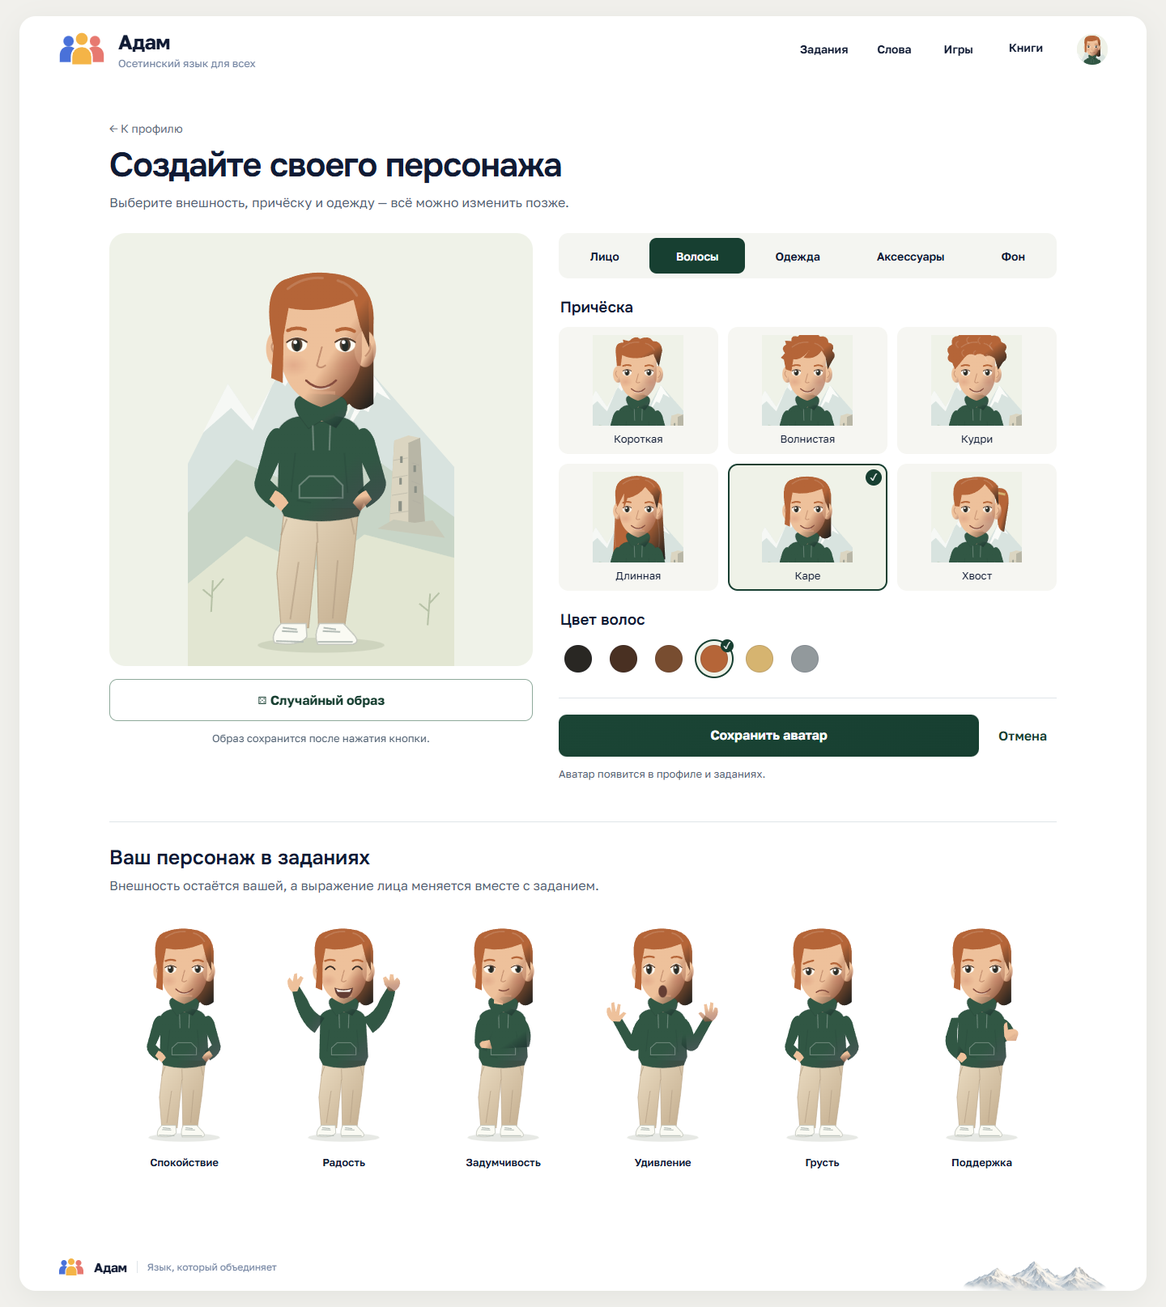
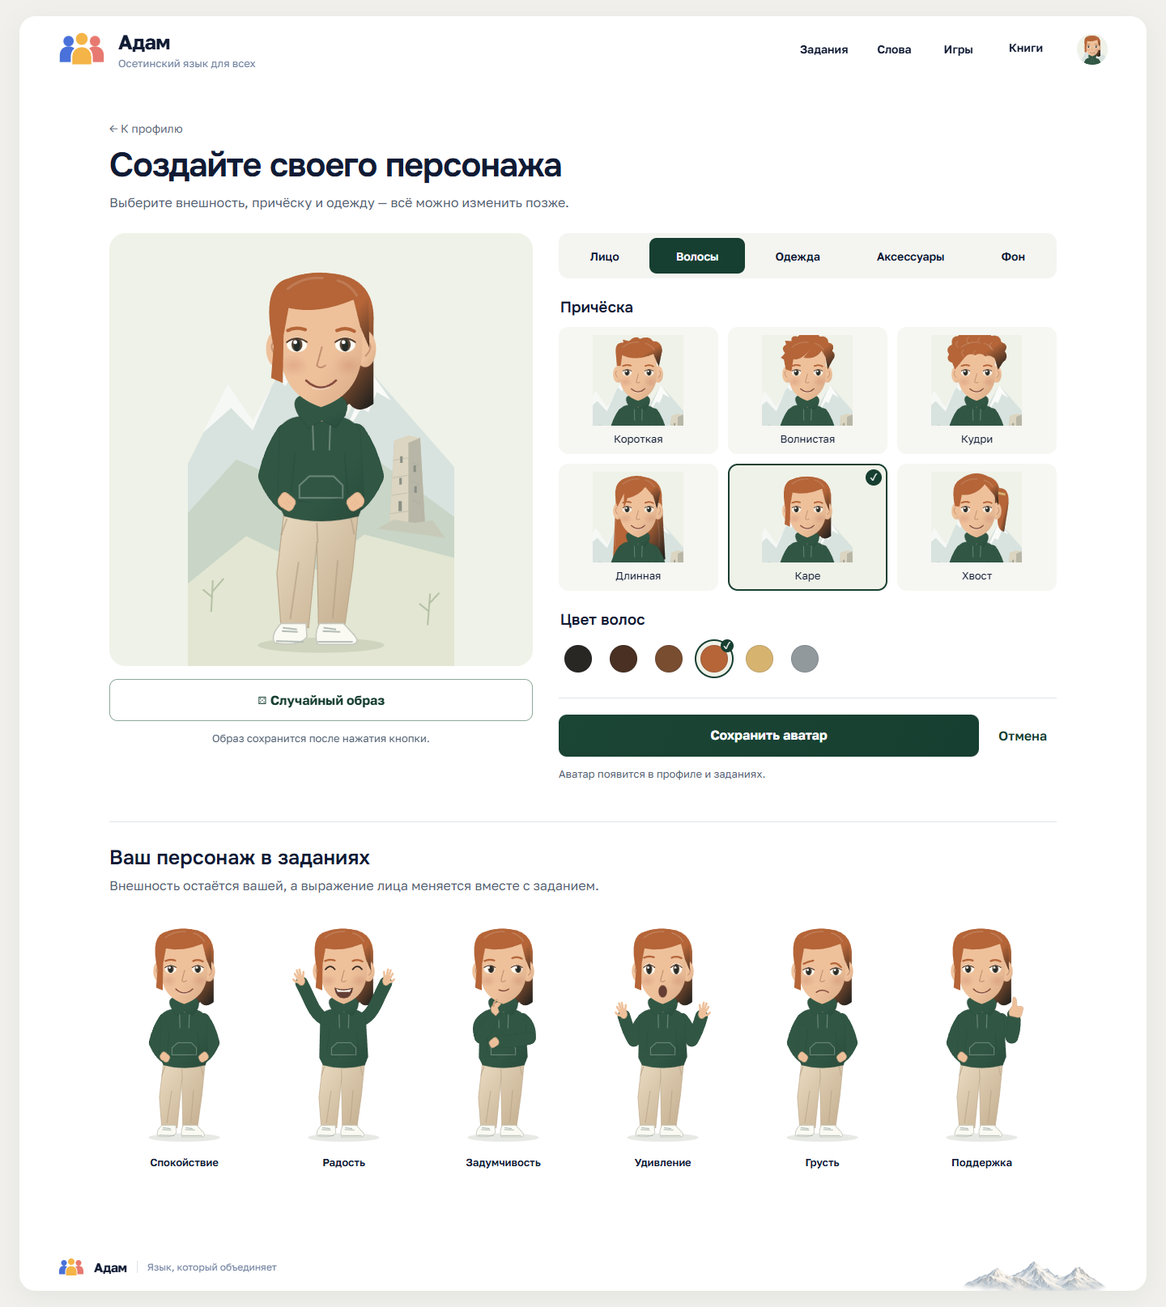
fix: исправить слои лица и геометрию рук аватара
Убрана прозрачность кожи и одежды, закрыт стык волос у хвоста. Перерисованы руки, короткие рукава футболки и кисти для эмоций, корпус перекрывает плечевые стыки. Версия отрисовки обновляет кэш изображений без изменения сохранённой внешности.

Проверено: сборка без предупреждений, публикация, 61 браузерная проверка, 36 проверок перекрытия по пикселям и визуальная проверка всех эмоций с футболкой, рубашкой и худи.

diff --git a/IronLanguage.Web/wwwroot/js/avatar-editor.js b/IronLanguage.Web/wwwroot/js/avatar-editor.js
@@ -9,7 +9,7 @@
   const buttons = [...categories.querySelectorAll("button")];
   const random = document.getElementById("avatar-random");
   const values = () => Object.fromEntries(fields.filter(x => x.checked).map(x => [x.dataset.avatarProperty, x.value]));
-  const url = (state, emotion = "Neutral", portrait = false) => "/avatars/render?" + new URLSearchParams({ v: "1", ...state, emotion, portrait });
+  const url = (state, emotion = "Neutral", portrait = false) => "/avatars/render?" + new URLSearchParams({ v: root.dataset.avatarRendererVersion, ...state, emotion, portrait });
   function update() {
     const state = values();
     preview.src = url(state);

diff --git a/IronLanguage.Web/Services/AvatarRenderer.cs b/IronLanguage.Web/Services/AvatarRenderer.cs
@@ -6,8 +6,9 @@ namespace IronLanguage.Web.Services;
 /// <summary>Shared, versioned SVG renderer. Expressions and poses do not modify saved appearance.</summary>
 public static class AvatarRenderer
 {
+    public const string Version = "2";
     public static string Url(AvatarOptions options, AvatarEmotion emotion = AvatarEmotion.Neutral, bool portrait = false) =>
-        "/avatars/render?v=1&" + string.Join("&", AvatarCatalog.Groups.Select(g => $"{g.Property}={Uri.EscapeDataString(options.Get(g.Property))}"))
+        "/avatars/render?v=" + Version + "&" + string.Join("&", AvatarCatalog.Groups.Select(g => $"{g.Property}={Uri.EscapeDataString(options.Get(g.Property))}"))
         + $"&emotion={emotion}&portrait={portrait.ToString().ToLowerInvariant()}";
 
     public static string Svg(AvatarOptions o, AvatarEmotion emotion = AvatarEmotion.Neutral, bool portrait = false)
@@ -16,14 +17,16 @@ public static class AvatarRenderer
         var skin = AvatarCatalog.Color(nameof(o.Skin), o.Skin);
         var hair = AvatarCatalog.Color(nameof(o.HairColor), o.HairColor);
         var top = AvatarCatalog.Color(nameof(o.TopColor), o.TopColor);
+        var skinShadow = Mix(skin, "#75472e", .18);
+        var topShadow = Mix(top, "#142a25", .25);
         var s = new StringBuilder();
         void Add(string svg) => s.Append(svg);
         Add($$"""
         <svg xmlns="http://www.w3.org/2000/svg" viewBox="{{(portrait ? "40 35 240 240" : "0 0 320 520")}}" fill="none">
         <defs>
-          <linearGradient id="skin" x1="0" y1="0" x2="1" y2="1"><stop stop-color="{{skin}}"/><stop offset=".6" stop-color="{{skin}}"/><stop offset="1" stop-color="#8d4935" stop-opacity=".55"/></linearGradient>
+          <linearGradient id="skin" x1="0" y1="0" x2="1" y2="1"><stop stop-color="{{skin}}"/><stop offset=".6" stop-color="{{skin}}"/><stop offset="1" stop-color="{{skinShadow}}"/></linearGradient>
           <linearGradient id="hair" x1="0" y1="0" x2="1" y2="1"><stop stop-color="{{hair}}"/><stop offset=".6" stop-color="{{hair}}"/><stop offset="1" stop-color="#171c1c"/></linearGradient>
-          <linearGradient id="top" x1="0" y1="0" x2=".9" y2="1"><stop stop-color="{{top}}"/><stop offset=".65" stop-color="{{top}}"/><stop offset="1" stop-color="#1c302e" stop-opacity=".8"/></linearGradient>
+          <linearGradient id="top" x1="0" y1="0" x2=".9" y2="1"><stop stop-color="{{top}}"/><stop offset=".65" stop-color="{{top}}"/><stop offset="1" stop-color="{{topShadow}}"/></linearGradient>
           <linearGradient id="pants" x1="0" y1="0" x2="1" y2="1"><stop stop-color="#eadbc1"/><stop offset="1" stop-color="#c3ad8e"/></linearGradient>
           <radialGradient id="blush"><stop stop-color="#c47562" stop-opacity=".28"/><stop offset="1" stop-color="#c47562" stop-opacity="0"/></radialGradient>
           <pattern id="knit" width="6" height="6" patternUnits="userSpaceOnUse"><path d="m0 0 3 3 3-3" stroke="#fff" opacity=".055"/></pattern>
@@ -53,7 +56,10 @@ public static class AvatarRenderer
         if (o.Hair is "long" or "bob")
             Add($"<path d=\"M102 94Q96 48 158 48q69-2 65 62l{(o.Hair == "long" ? "9 157q-37 13-53-15-34 28-85 7Z" : "0 95q-18 14-29 0-19 15-51 0Z")}\" fill=\"url(#hair)\"/>");
         if (o.Hair == "ponytail")
+        {
+            Add("<path d=\"M105 137Q92 72 118 54q36-26 72-7 37 11 30 57l-7 36-16-21-77 4Z\" fill=\"url(#hair)\"/>");
             Add("<path d=\"M211 79q42-9 32 53l-10 62q-19-5-17-38l-5-54Z\" fill=\"url(#hair)\"/><path d=\"m217 91 19 4\" stroke=\"#d6b470\" stroke-width=\"6\"/>");
+        }
         // Fixed lower outfit.
         Add("""
         <path d="M116 331h89l-7 72-10 72h-31l-2-104-10 103h-33l-5-65Z" fill="url(#pants)" stroke="#bda98d" stroke-width="1.2"/>
@@ -63,12 +69,12 @@ public static class AvatarRenderer
         """);
         // Neck and body.
         Add("""
-        <path d="M143 190h34v38q-14 20-34 0Z" fill="url(#skin)"/>
-        <path d="M143 192h34v16q-15 8-34-1Z" fill="#894c37" opacity=".18"/>
+        <g data-avatar-layer="neck"><path d="M143 190h34v38q-14 20-34 0Z" fill="url(#skin)"/>
+        <path d="M143 192h34v16q-15 8-34-1Z" fill="#894c37" opacity=".18"/></g>
         """);
+        Add(Arms(o, emotion, front: false));
+        Add("<g data-avatar-layer=\"torso\">");
         Add("<path d=\"M139 220q-19 0-29 14l-2 90 8 16q43 12 89 0l7-18-5-83q-7-17-29-19-19 13-39 0Z\" fill=\"url(#top)\" stroke=\"#263e36\" stroke-opacity=\".25\" stroke-width=\"1.4\"/>");
-        if (o.Top == "tee")
-            Add("<path d=\"M111 237 98 257l22 8m83-26 17 18-17 10\" fill=\"url(#top)\" stroke=\"#223932\" stroke-opacity=\".2\"/>");
         if (o.Top == "hoodie")
             Add("<path d=\"M133 219q-17-30 28-25 39-3 28 25l-11 15-17-9-16 10Z\" fill=\"url(#top)\" stroke=\"#253e34\" stroke-opacity=\".45\"/><path d=\"m150 231 1 30m20-30-1 30m-36 42 12-11h29l11 11v15h-52Z\" stroke=\"#fff\" stroke-opacity=\".27\" stroke-width=\"2\"/>");
         else if (o.Top == "shirt")
@@ -85,44 +91,22 @@ public static class AvatarRenderer
             Add("<g fill=\"#eee8db\"><circle cx=\"160\" cy=\"255\" r=\"2\"/><circle cx=\"160\" cy=\"277\" r=\"2\"/><circle cx=\"160\" cy=\"299\" r=\"2\"/><circle cx=\"160\" cy=\"321\" r=\"2\"/></g>");
         if (o.Top == "knit") Add("<path d=\"m119 241 81-1 4 86q-38 11-89 0Z\" fill=\"url(#knit)\"/>");
         Add("<path d=\"m129 264-5 47m64-47 4 48m-61 9 17 3m25-3 13-4\" stroke=\"#152d27\" opacity=\".15\" stroke-width=\"2\"/>");
-        // Pose-specific arms share the selected sleeve and skin colors.
-        var sleeve = o.Top == "tee" ? "url(#skin)" : "url(#top)";
-        if (emotion == AvatarEmotion.Happy)
-        {
-            Add($"<path d=\"M119 239Q93 229 82 199L65 171l-15 11q14 68 48 89Z\" fill=\"{sleeve}\"/><path d=\"M200 239q27-10 38-40l17-28 15 11q-13 67-48 89Z\" fill=\"{sleeve}\"/>");
-            Add("<path d=\"M49 183q-10-10-9-24l4-7 7 9 3-16 6-2 1 14 7-8 6 4-10 21-3 8ZM256 181q-3-7-9-14l-3-14 6-3 7 9 2-14 7 1 2 13 6-7 6 7q3 13-12 23Z\" fill=\"url(#skin)\"/>");
-        }
-        else if (emotion == AvatarEmotion.Surprised)
-        {
-            Add($"<path d=\"M115 238q-14 5-22 36l-24-40-16 11 31 57q16 18 35-6ZM204 238q14 5 22 36l24-40 16 11-31 57q-16 18-35-6Z\" fill=\"{sleeve}\"/>");
-            Add("<path d=\"M52 246q-15-12-11-28l6-2 4 11-1-20 6-2 4 21 4-17 6 1-3 24 9-8 6 3-14 18ZM266 246q15-12 11-28l-6-2-4 11 1-20-6-2-4 21-4-17-6 1 3 24-9-8-6 3 14 18Z\" fill=\"url(#skin)\"/>");
-        }
-        else if (emotion == AvatarEmotion.Thinking)
-        {
-            Add($"<path d=\"M111 240q-12 7-12 51 1 18 25 18l35-100-19-5-18 65Z\" fill=\"{sleeve}\"/><path d=\"M204 239q22 27 11 62l-79 5-3-19 59-5-8-26Z\" fill=\"{sleeve}\"/>");
-            Add("<path d=\"M140 208q-1-14 9-21l11-3 3 5-12 9 9 5-1 8ZM131 286l-17 3q-9 6 0 14l22 2Z\" fill=\"url(#skin)\"/>");
-        }
-        else if (emotion == AvatarEmotion.Supportive)
-        {
-            Add($"<path d=\"M114 238q-10 24-5 57l18 23-11 15q-38-20-33-54l12-40Z\" fill=\"{sleeve}\"/><path d=\"M204 239q21 8 28 37l-24 16-4-59-17 13Z\" fill=\"{sleeve}\"/>");
-            Add("<path d=\"M115 313q12 0 13 12l-11 10-11-9ZM208 278l-1-20q0-9 7-10l2 16 12-2q13 4 9 15l-4 11h-20Z\" fill=\"url(#skin)\"/>");
-        }
-        else
-        {
-            Add($"<path d=\"M113 237q-10-9-19 11l-14 51q-1 17 23 31l11-19-15-14 17-37ZM205 237q10-9 19 11l14 51q1 17-23 31l-11-19 15-14-17-37Z\" fill=\"{sleeve}\"/>");
-            Add("<path d=\"M105 309q9 3 16 15l-9 10-14-14ZM214 309q-9 3-16 15l9 10 14-14Z\" fill=\"url(#skin)\"/>");
-        }
+        Add("</g>");
+        Add(Arms(o, emotion, front: true));
+        Add(Hands(o, emotion, afterFace: false));
         if (o.Accessory == "scarf")
             Add("<path d=\"M134 216q27 19 53-1l3 16q-20 20-59 1ZM153 232h20l-2 51-19-3Z\" fill=\"#bb8c5b\"/><path d=\"m156 250 15 2m-16 9 16 2\" stroke=\"#ebd6b9\" stroke-width=\"2\"/>");
-        // Ears, face and highlights.
+        // Ears are behind an opaque face, including the jaw over the neck.
+        Add("<g data-avatar-layer=\"ears\">");
         Add("<ellipse cx=\"107\" cy=\"139\" rx=\"13\" ry=\"22\" fill=\"url(#skin)\"/><ellipse cx=\"213\" cy=\"139\" rx=\"13\" ry=\"22\" fill=\"url(#skin)\"/><path d=\"M104 130q-8 7 3 18m109-18q8 7-3 18\" stroke=\"#92553d\" stroke-opacity=\".4\" stroke-width=\"2\"/>");
+        Add("</g>");
         var face = o.Face switch
         {
             "round" => "M108 105q3-47 52-47t52 47v42q0 61-52 61t-52-61Z",
             "angular" => "M109 104q0-45 51-45t51 45l-3 62-24 31-24 11-24-11-24-31Z",
             _ => "M111 104q0-46 49-46t49 46v43q-4 47-49 62-45-15-49-62Z"
         };
-        Add($"<path d=\"{face}\" fill=\"url(#skin)\"/>");
+        Add($"<path data-avatar-layer=\"face\" d=\"{face}\" fill=\"url(#skin)\"/>");
         Add("<ellipse cx=\"127\" cy=\"159\" rx=\"19\" ry=\"14\" fill=\"url(#blush)\"/><ellipse cx=\"193\" cy=\"159\" rx=\"19\" ry=\"14\" fill=\"url(#blush)\"/>");
         Add("<path d=\"M161 137l-6 22q4 5 10 0\" stroke=\"#92553d\" stroke-opacity=\".45\" stroke-width=\"2\" stroke-linecap=\"round\"/>");
         var eyeY = emotion == AvatarEmotion.Sad ? 139 : 134;
@@ -165,7 +149,122 @@ public static class AvatarRenderer
             Add($"<g stroke=\"#35453e\" stroke-width=\"3\" fill=\"#fff\" fill-opacity=\".09\"><rect x=\"111\" y=\"121\" width=\"40\" height=\"29\" rx=\"{rx}\"/><rect x=\"169\" y=\"121\" width=\"40\" height=\"29\" rx=\"{rx}\"/><path d=\"M151 132q9-5 18 0m-58-2-7-3m105 3 7-3\"/></g>");
         }
         if (o.Accessory == "earrings") Add("<circle cx=\"106\" cy=\"158\" r=\"5\" stroke=\"#d6ad55\" stroke-width=\"3\"/><circle cx=\"214\" cy=\"158\" r=\"5\" stroke=\"#d6ad55\" stroke-width=\"3\"/>");
+        Add(Hands(o, emotion, afterFace: true));
         Add("</svg>");
         return s.ToString();
+    }
+
+    private record ArmPaths(string Full, string Forearm, string ShortSleeve);
+
+    private static (ArmPaths Left, ArmPaths Right) Pose(AvatarEmotion emotion) => emotion switch
+    {
+        AvatarEmotion.Happy => (
+            new("M119 242Q102 232 92 210Q80 185 70 164", "M92 210Q80 185 70 164", "M119 242Q107 234 102 225"),
+            new("M201 242Q218 232 228 210Q240 185 250 164", "M228 210Q240 185 250 164", "M201 242Q213 234 218 225")),
+        AvatarEmotion.Surprised => (
+            new("M119 242Q104 260 98 287Q86 267 77 235", "M98 287Q86 267 77 235", "M119 242Q110 254 107 261"),
+            new("M201 242Q216 260 222 287Q234 267 243 235", "M222 287Q234 267 243 235", "M201 242Q210 254 213 261")),
+        AvatarEmotion.Thinking => (
+            new("M119 242Q103 254 112 280Q130 255 143 228", "M112 280Q130 255 143 228", "M119 242Q111 254 111 262"),
+            new("M201 242Q218 256 216 282Q180 291 145 290", "M216 282Q180 291 145 290", "M201 242Q213 254 215 262")),
+        AvatarEmotion.Supportive => (
+            new("M119 242Q105 262 98 292Q107 312 118 321", "M98 292Q107 312 118 321", "M119 242Q110 254 107 264"),
+            new("M201 242Q218 257 224 280Q232 256 228 232", "M224 280Q232 256 228 232", "M201 242Q213 254 217 264")),
+        _ => (
+            new("M119 242Q105 262 98 292Q107 312 118 321", "M98 292Q107 312 118 321", "M119 242Q110 254 107 264"),
+            new("M201 242Q215 262 222 292Q213 312 202 321", "M222 292Q213 312 202 321", "M201 242Q210 254 213 264"))
+    };
+
+    private static string Arms(AvatarOptions o, AvatarEmotion emotion, bool front)
+    {
+        var skin = AvatarCatalog.Color(nameof(o.Skin), o.Skin);
+        var top = AvatarCatalog.Color(nameof(o.TopColor), o.TopColor);
+        var (left, right) = Pose(emotion);
+        var s = new StringBuilder($"<g data-avatar-layer=\"arms-{(front ? "front" : "back")}\" fill=\"none\" stroke-linecap=\"round\" stroke-linejoin=\"round\">");
+        void Stroke(string path, string color, int width) => s.Append($"<path d=\"{path}\" stroke=\"{color}\" stroke-width=\"{width}\"/>");
+        void Limb(string path, bool bare)
+        {
+            var color = bare ? skin : top;
+            Stroke(path, Mix(color, bare ? "#75472e" : "#142a25", .18), bare ? 22 : 27);
+            Stroke(path, color, bare ? 20 : 25);
+        }
+        if (!front)
+        {
+            foreach (var arm in new[] { left, right })
+            {
+                Limb(arm.Full, o.Top == "tee");
+                if (o.Top == "tee") Limb(arm.ShortSleeve, bare: false);
+            }
+        }
+        else if (emotion == AvatarEmotion.Thinking)
+        {
+            Limb(right.Forearm, o.Top == "tee");
+            Limb(left.Forearm, o.Top == "tee");
+        }
+        else if (emotion == AvatarEmotion.Supportive)
+            Limb(right.Forearm, o.Top == "tee");
+        s.Append("</g>");
+        return s.ToString();
+    }
+
+    private static string Hands(AvatarOptions o, AvatarEmotion emotion, bool afterFace)
+    {
+        var skin = AvatarCatalog.Color(nameof(o.Skin), o.Skin);
+        var edge = Mix(skin, "#75472e", .22);
+        var s = new StringBuilder($"<g data-avatar-layer=\"hands-{(afterFace ? "chin" : "front")}\" fill=\"{skin}\" stroke=\"{edge}\" stroke-width=\"1\" stroke-linecap=\"round\" stroke-linejoin=\"round\">");
+        void Rest(int x, int y, bool mirror = false) => s.Append($$"""
+            <g transform="translate({{x}} {{y}}) scale({{(mirror ? "-1" : "1")}} 1)">
+              <path d="M-8-4Q-12 1-7 7L1 12Q5 14 8 10L11 4Q12 0 8-3L2-8Q-2-11-5-8Z"/>
+              <path d="m-3 2 6 6m-3-9 6 6" fill="none" stroke-opacity=".35"/>
+            </g>
+            """);
+        void Open(int x, int y, int rotation, bool mirror = false) => s.Append($$"""
+            <g transform="translate({{x}} {{y}}) rotate({{rotation}}) scale({{(mirror ? "-1" : "1")}} 1)">
+              <ellipse cx="0" cy="-6" rx="8" ry="11"/>
+              <g fill="none" stroke="{{skin}}" stroke-width="4.5">
+                <path d="m-6-12-3-11m7 9-1-15m5 15 1-15m3 18 4-11M-6-3q-7-2-9-9"/>
+              </g>
+              <path d="m-3-8 5 2" fill="none" stroke-opacity=".25"/>
+            </g>
+            """);
+        if (afterFace)
+        {
+            if (emotion == AvatarEmotion.Thinking)
+                s.Append("""
+                <path d="M136 227q-5-8 1-15l8-6q7-2 10 3l-7 8 3 9-7 8Z"/>
+                <path d="M140 214q-2-8 6-14" fill="none" stroke="inherit" stroke-width="4"/>
+                <path d="m142 221 5 1" fill="none" stroke-opacity=".3"/>
+                """);
+        }
+        else if (emotion is AvatarEmotion.Happy or AvatarEmotion.Surprised)
+        {
+            var happy = emotion == AvatarEmotion.Happy;
+            Open(happy ? 70 : 77, happy ? 164 : 235, -15);
+            Open(happy ? 250 : 243, happy ? 164 : 235, 15, mirror: true);
+        }
+        else if (emotion == AvatarEmotion.Thinking)
+            Rest(141, 290, mirror: true);
+        else if (emotion == AvatarEmotion.Supportive)
+        {
+            Rest(118, 321);
+            s.Append("""
+            <g transform="translate(228 232)">
+              <path d="M-8 2q-4-7 1-15l5-7v-12q0-7 5-5l3 5 1 14h9q6 1 4 7l-3 12q-2 5-8 5Z"/>
+              <path d="m8-13 9 1m-10 5 9 1m-10 5 7 1" fill="none" stroke-opacity=".4"/>
+            </g>
+            """);
+        }
+        else { Rest(118, 321); Rest(202, 321, mirror: true); }
+        s.Append("</g>");
+        return s.ToString();
+    }
+
+    private static string Mix(string first, string second, double amount)
+    {
+        var rgb = new int[3];
+        for (var i = 0; i < 3; i++)
+            rgb[i] = (int)Math.Round(Convert.ToInt32(first.Substring(1 + i * 2, 2), 16) * (1 - amount)
+                + Convert.ToInt32(second.Substring(1 + i * 2, 2), 16) * amount);
+        return $"#{rgb[0]:X2}{rgb[1]:X2}{rgb[2]:X2}";
     }
 }

diff --git a/WORK_CONTEXT.md b/WORK_CONTEXT.md
@@ -8,7 +8,9 @@ README этой ветки содержит только текущую диза
 
 ## Принятые решения
 
-Локальный предпросмотр аватаров исправлен после пустых ответов CSS/JS: запускать самостоятельную публикацию .run-avatar/preview через .run-local/start-avatar-preview.ps1, а не старую DLL в .run-avatar/build. Сжатые ресурсы теперь находятся в публикации и не зависят от изменяемого obj других сборок. Адрес — http://127.0.0.1:63290; ключи Data Protection сохраняются в прежнем каталоге. Браузерная проверка дополнена проверкой непустых статических ресурсов для identity/gzip/br.
+По шести замечаниям пользователя исправлена геометрия аватара: кожа и одежда непрозрачны, устранён стык волос у хвоста, заново построены руки и кисти, корпус перекрывает плечевые стыки, добавлены короткие рукава футболки и понятный жест поддержки. Для защиты от старого кэша введена единая AvatarRenderer.Version = 2, используемая сервером и редактором. Регрессия отрисовки проверяется tests/avatar-artwork.cjs (сравнение пикселей и контактный лист эмоций). Актуальная локальная публикация — .run-avatar/preview-v2, запускать через .run-local/start-avatar-preview.ps1.
+
+Локальный предпросмотр аватаров исправлен после пустых ответов CSS/JS: запускать самостоятельную публикацию .run-avatar/preview-v2 через .run-local/start-avatar-preview.ps1, а не старую DLL в .run-avatar/build. Сжатые ресурсы теперь находятся в публикации и не зависят от изменяемого obj других сборок. Адрес — http://127.0.0.1:63290; ключи Data Protection сохраняются в прежнем каталоге. Браузерная проверка дополнена проверкой непустых статических ресурсов для identity/gzip/br.
 
 14 октября 2026 года в ветке feat/17-avatar-customization добавлен конструктор аватара (ишью №17). Пользователь утвердил персонажа во весь рост и эмоции для заданий; настройку низа одежды и обуви отложил. Реализованы лицо, кожа, глаза, брови, шесть причёсок и цветов волос, шесть вариантов и цветов верхней одежды, аксессуары и фон с башней по форме Курта и Тага. Отрисовка — общий оригинальный модульный SVG, визуально проще растрового концепта. Users.AvatarJson хранит только проверенные ключи вариантов; нужна миграция AvatarCustomization. /profile/avatar доступен после входа; регистрация ведёт туда с необязательным шагом. Профиль и шапка используют портрет, аудиопазлы/перевод/практика слов — полный рост и эмоциональную реакцию. Остальные задания могут подключать _Avatar и AdamAvatar.setEmotion. Документация: docs/design/avatar-customization/README.md; браузерная проверка: tests/avatar-browser.cjs. Для проверки создан отдельный локальный PostgreSQL в игнорируемом .run-avatar/postgres, на 127.0.0.1:58321 из сохранённой настройки; установленный PostgreSQL на 5432 не менялся. Это новая проверочная база, без прежних пользовательских записей.
 
